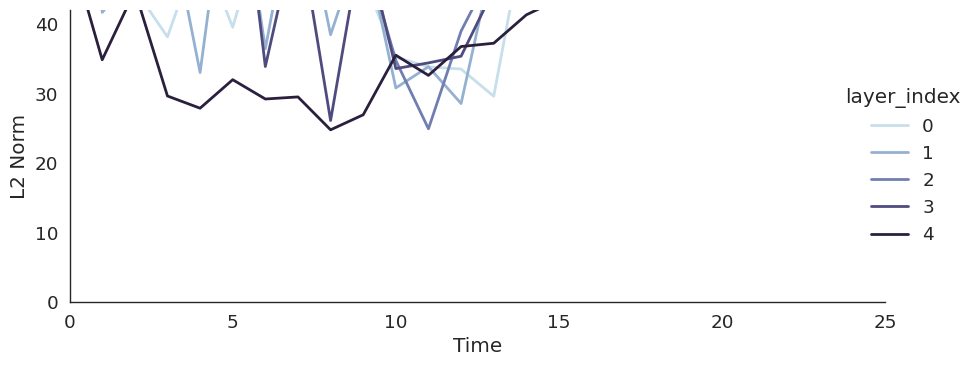
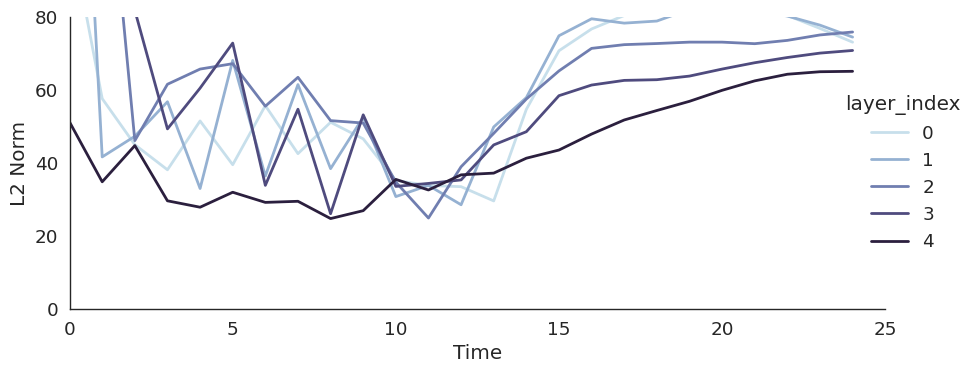
prog

diff --git a/RecurrentFF/model/model.py b/RecurrentFF/model/model.py
@@ -143,7 +143,7 @@ class RecurrentFFNet(nn.Module):
 
         self.noise = torch.randn(
             self.settings.data_config.train_batch_size,
-            self.settings.data_config.data_size).to(settings.device.device)
+            self.settings.data_config.data_size).to(settings.device.device) / 7
 
         logging.info("Finished initializing network")
 
@@ -201,9 +201,9 @@ class RecurrentFFNet(nn.Module):
         for epoch in range(0, self.settings.model.epochs):
             logging.info("Epoch: " + str(epoch))
 
+            self.attach_stable_state_preinitializations()
+
             for batch_num, (input_data, label_data) in enumerate(train_loader):
-                if batch_num % 10 == 0:
-                    self.attach_stable_state_preinitializations()
 
                 input_data.move_to_device_inplace(self.settings.device.device)
                 label_data.move_to_device_inplace(self.settings.device.device)

diff --git a/RecurrentFF/model/hidden_layer.py b/RecurrentFF/model/hidden_layer.py
@@ -245,6 +245,7 @@ class HiddenLayer(nn.Module):
         if isTraining:
             activations_dim = self.train_activations_dim
 
+            # TODO: remove
             if torch.equal(self.stable_state_activations, torch.zeros(1, 1).to(self.settings.device.device)):
                 pos_activations_current = torch.zeros(
                     activations_dim[0], activations_dim[1]).to(
@@ -278,6 +279,7 @@ class HiddenLayer(nn.Module):
         else:
             activations_dim = self.test_activations_dim
 
+            # TODO: remove
             if torch.equal(self.stable_state_activations, torch.zeros(1, 1).to(self.settings.device.device)):
                 predict_activations_current = torch.zeros(
                     activations_dim[0], activations_dim[1]).to(

diff --git a/RecurrentFF/analysis/seaborn/l2_norm_activations_truncated_filtered.py b/RecurrentFF/analysis/seaborn/l2_norm_activations_truncated_filtered.py
@@ -51,7 +51,7 @@ def plot_activations_l2_over_time_from_df(df):
         )
         g._legend.set_bbox_to_anchor((1.05, 0.5))
 
-        g.set(ylim=(0, 42))
+        g.set(ylim=(0, 80))
         g.set(xlim=(0, 25))
 
         # Enhancements
